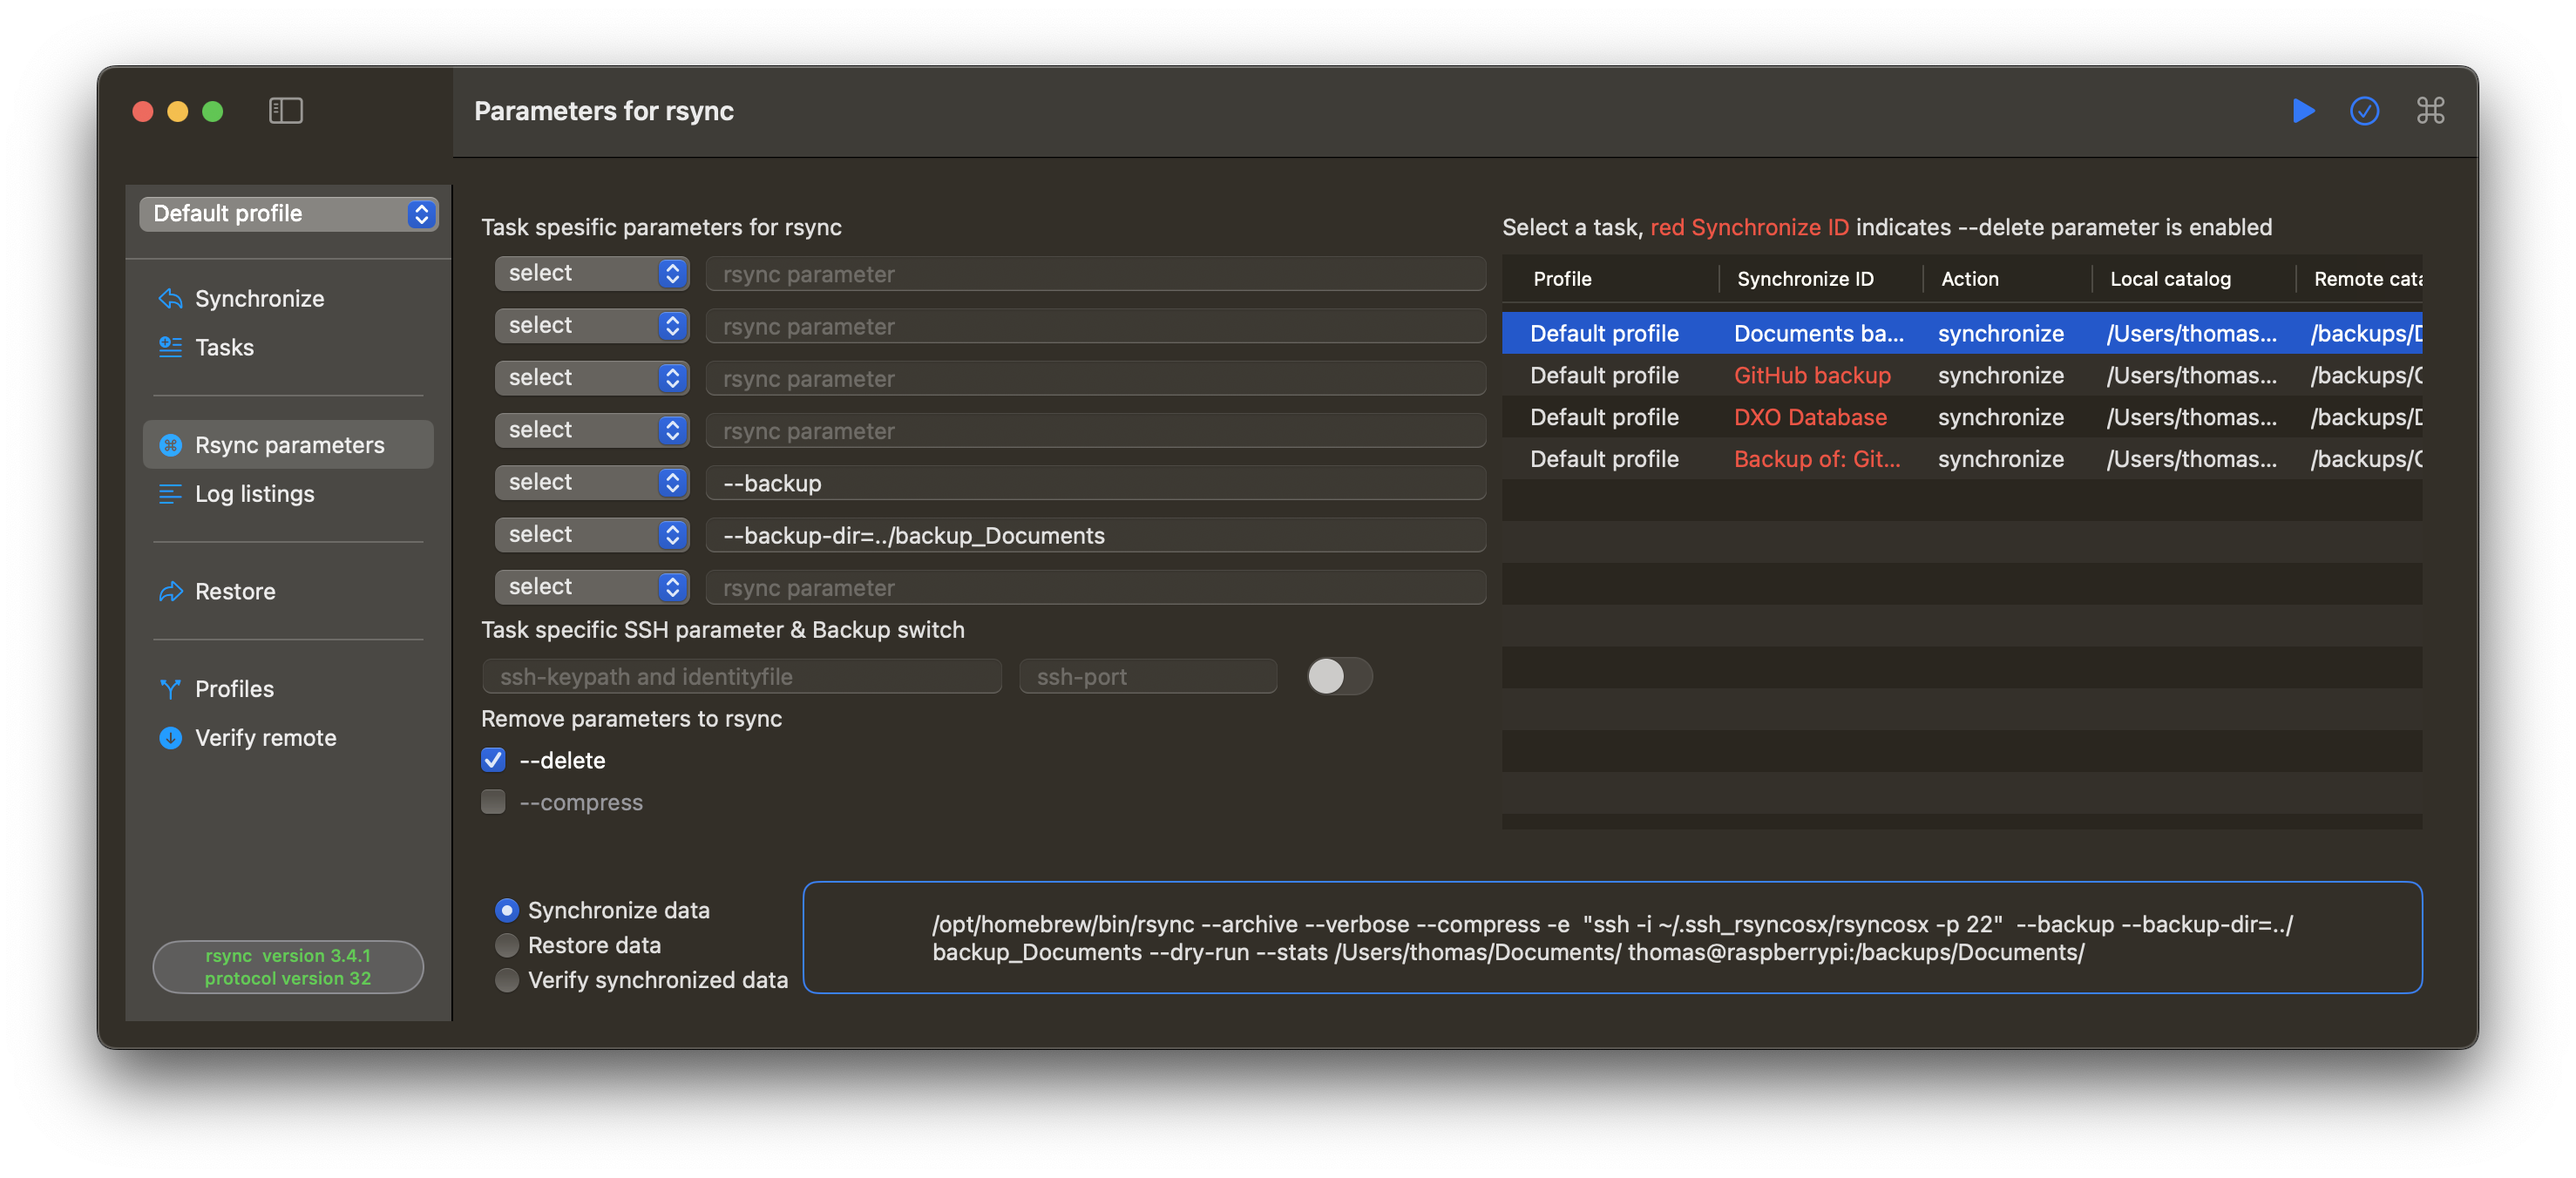
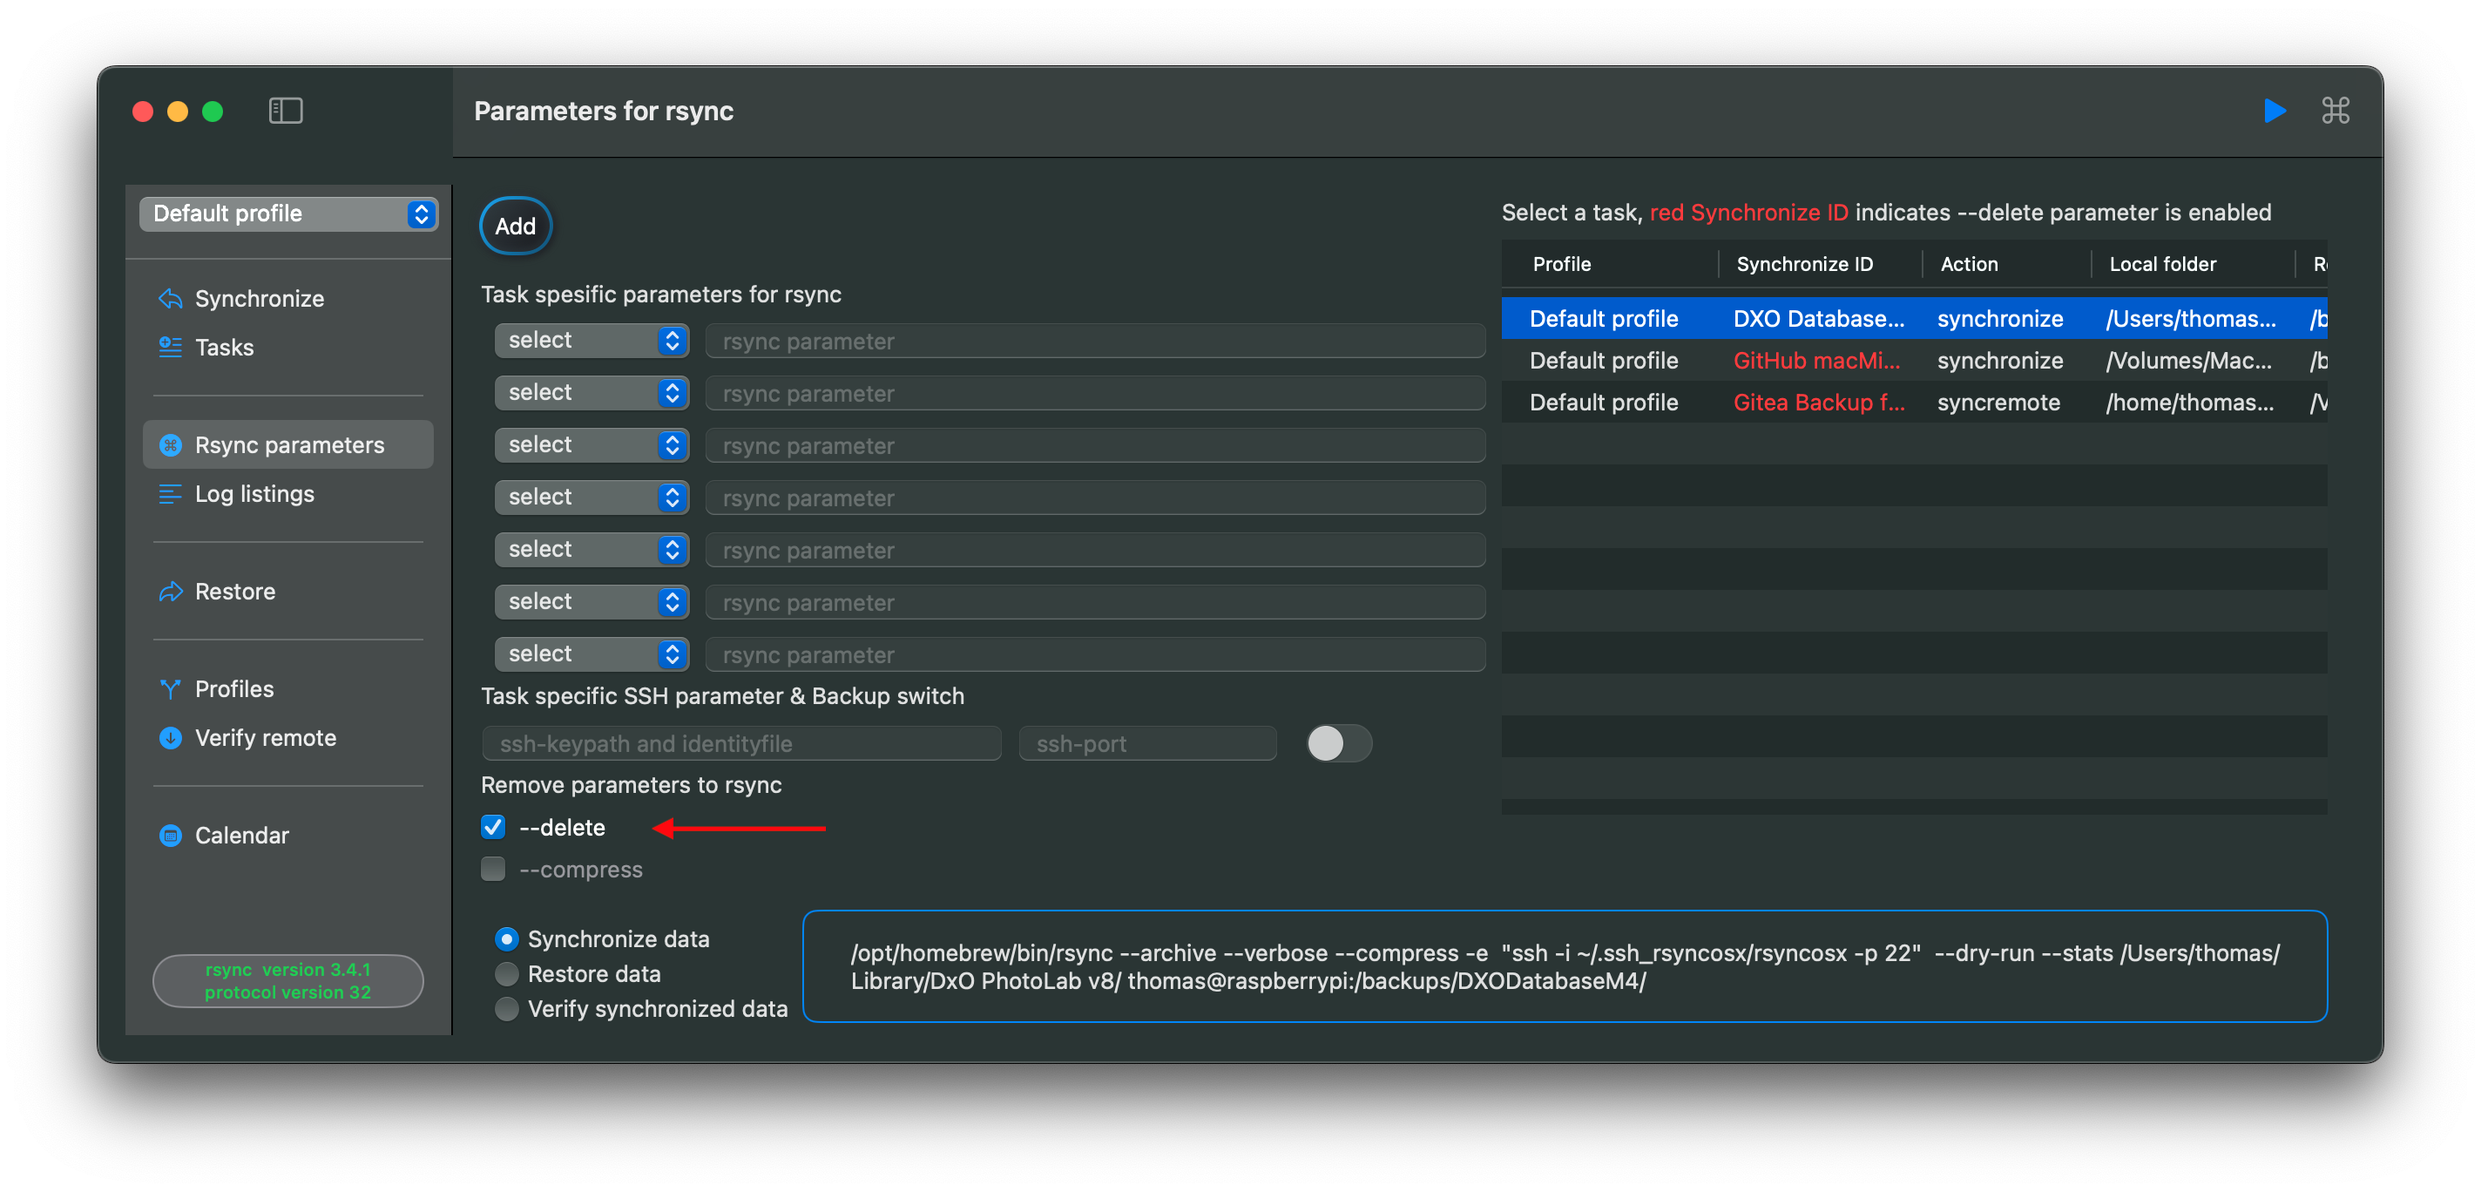
update

diff --git a/content/en/docs/GettingStarted.md b/content/en/docs/GettingStarted.md
@@ -36,6 +36,22 @@ A verification of a new task can also be executed by opening the Tasks or Rsync 
 
 {{< /alert >}}
 
+**Verify a task in Tasks**
+
+After adding a task, select the task and press the `play`button on the toolbar which are marked in screen dump below. 
+
+{{< figure src="/images/verifyatask/verifytask.png" alt="" position="center" style="border-radius: 8px;" >}}
+
+*Note: The Add and Update button is in next version (not yet released) moved to view from the toolbar.*
+
+**Verify a task in Rsync parameters**
+
+After adding parameters, select the task and press the `play`button on the toolbar which are marked in screen dump below.
+
+{{< figure src="/images/verifyatask/verifyparameter.png" alt="" position="center" style="border-radius: 8px;" >}}
+
+*Note: The Add  button is in next version (not yet released) moved to view from the toolbar.*
+
 ##### Aborting tasks
 
 Please note that this is an external task not controlled by RsyncUI, which executes the command-line tool `rsync`. RsyncUI monitors the task for progress and termination.
@@ -50,21 +66,4 @@ There are three Sidebar menu options that are contingent upon the properties of 
 - *Restore*: this option is only available for synchronize- and snapshot tasks where *the destination* is located on a *remote server*
 - *Verify remote*: this option is only available for synchronize tasks where *the destination* is located on a *remote server*
 
-##### Minimum Sidebar Menu
-
-This is the minimum. If you exclusively utilize RsyncUI for synchronizing tasks to local attached disks. There are no remote servers and no snapshot task. The only remote server, see column Server, is a server named `raspberrypi`, which is halted.
-
-{{< figure src="/images/started/minimumoptions.png" alt="" position="center" style="border-radius: 8px;" >}}
-
-##### Snapshot and restore
-
-This is snapshot and restore, a snapshot task with destination on a remote server. That is why the restore menu is avaliable as well. The *Verify remote* is only for synchronization tasks with destination on a remote server. That is why it is not present.
-
-{{< figure src="/images/started/snapshotandrestore.png" alt="" position="center" style="border-radius: 8px;" >}}
-
-##### Full Sidebar Menu
-
-This is all menu options, a snapshot task and synchronize task, both with destination on a remote server.
-
-{{< figure src="/images/started/allmenuoptions.png" alt="" position="center" style="border-radius: 8px;" >}}
 

diff --git a/content/en/docs/Important.md b/content/en/docs/Important.md
@@ -42,7 +42,7 @@ Select the *Rsync parameters* from the main sidebar menu.  Select the task for w
 
 {{< figure src="/images/important/deleteparameter.png" alt="" position="center" style="border-radius: 8px;" >}}
 
-For selected task above, the delete parameter is disabled and backup switch toggled.
+*Note: The Add  button is in next version (not yet released) moved to view from the toolbar.*
 
 ##### Two options to save changes
 
